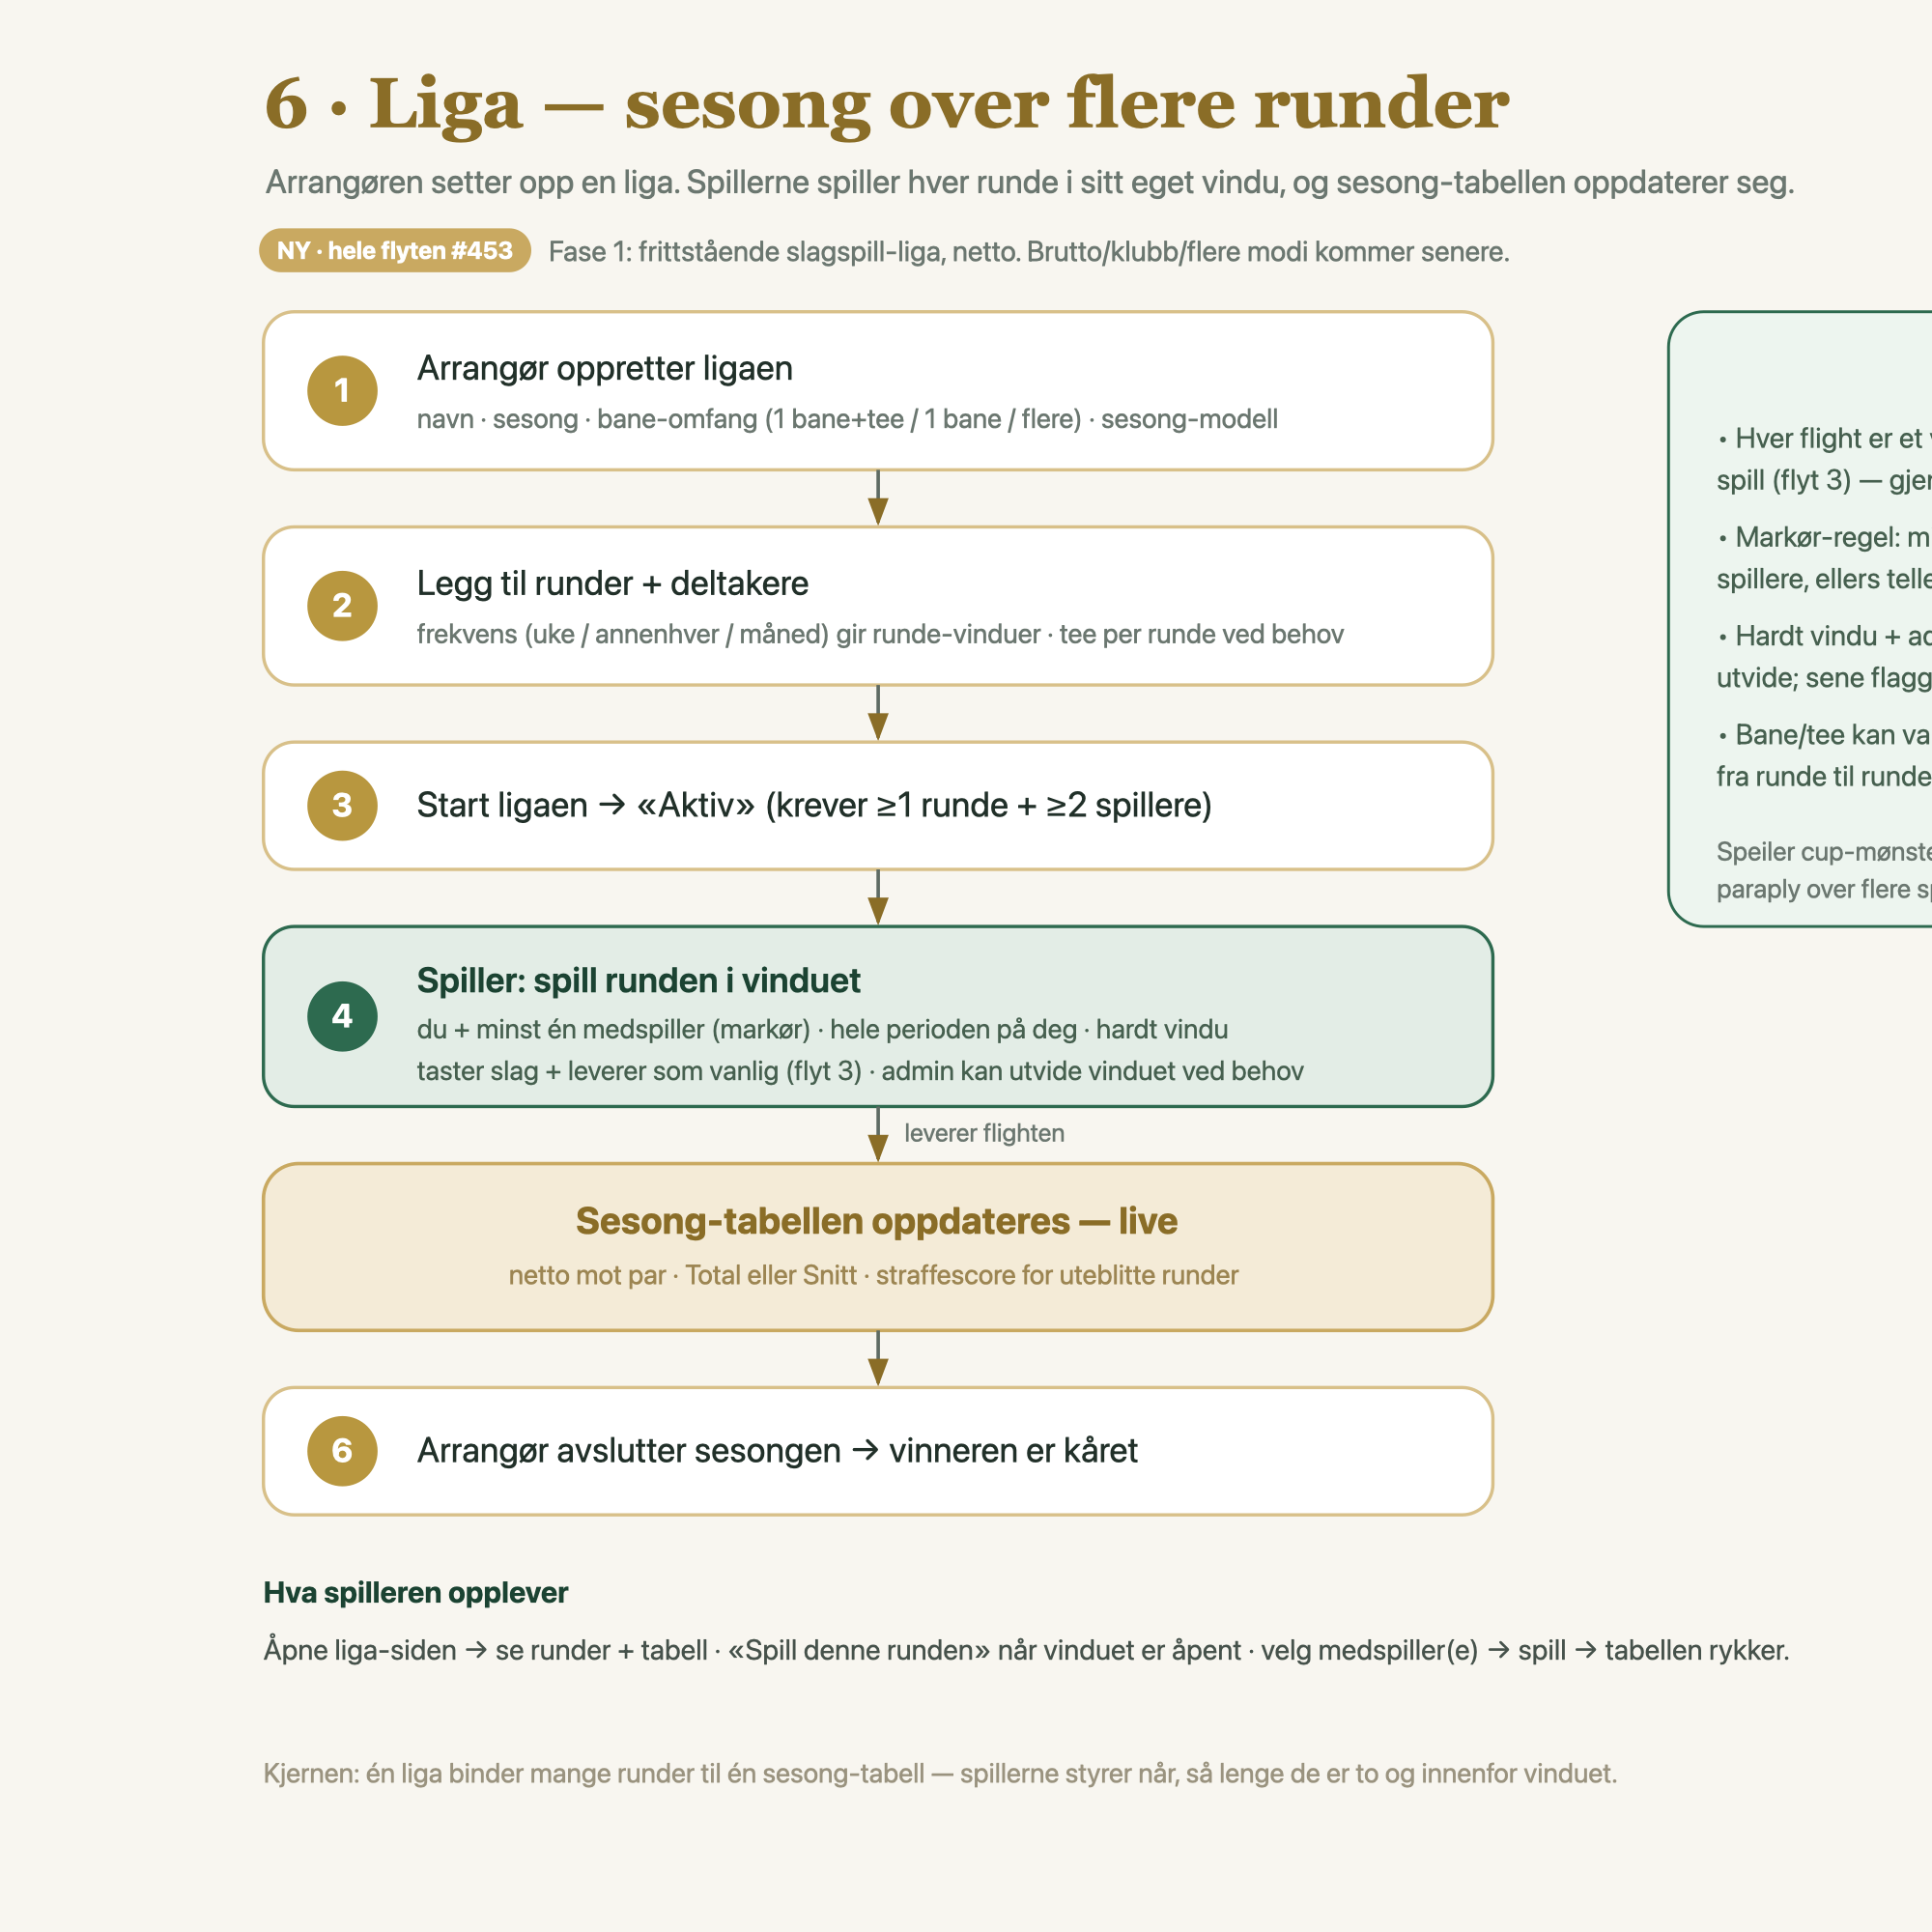
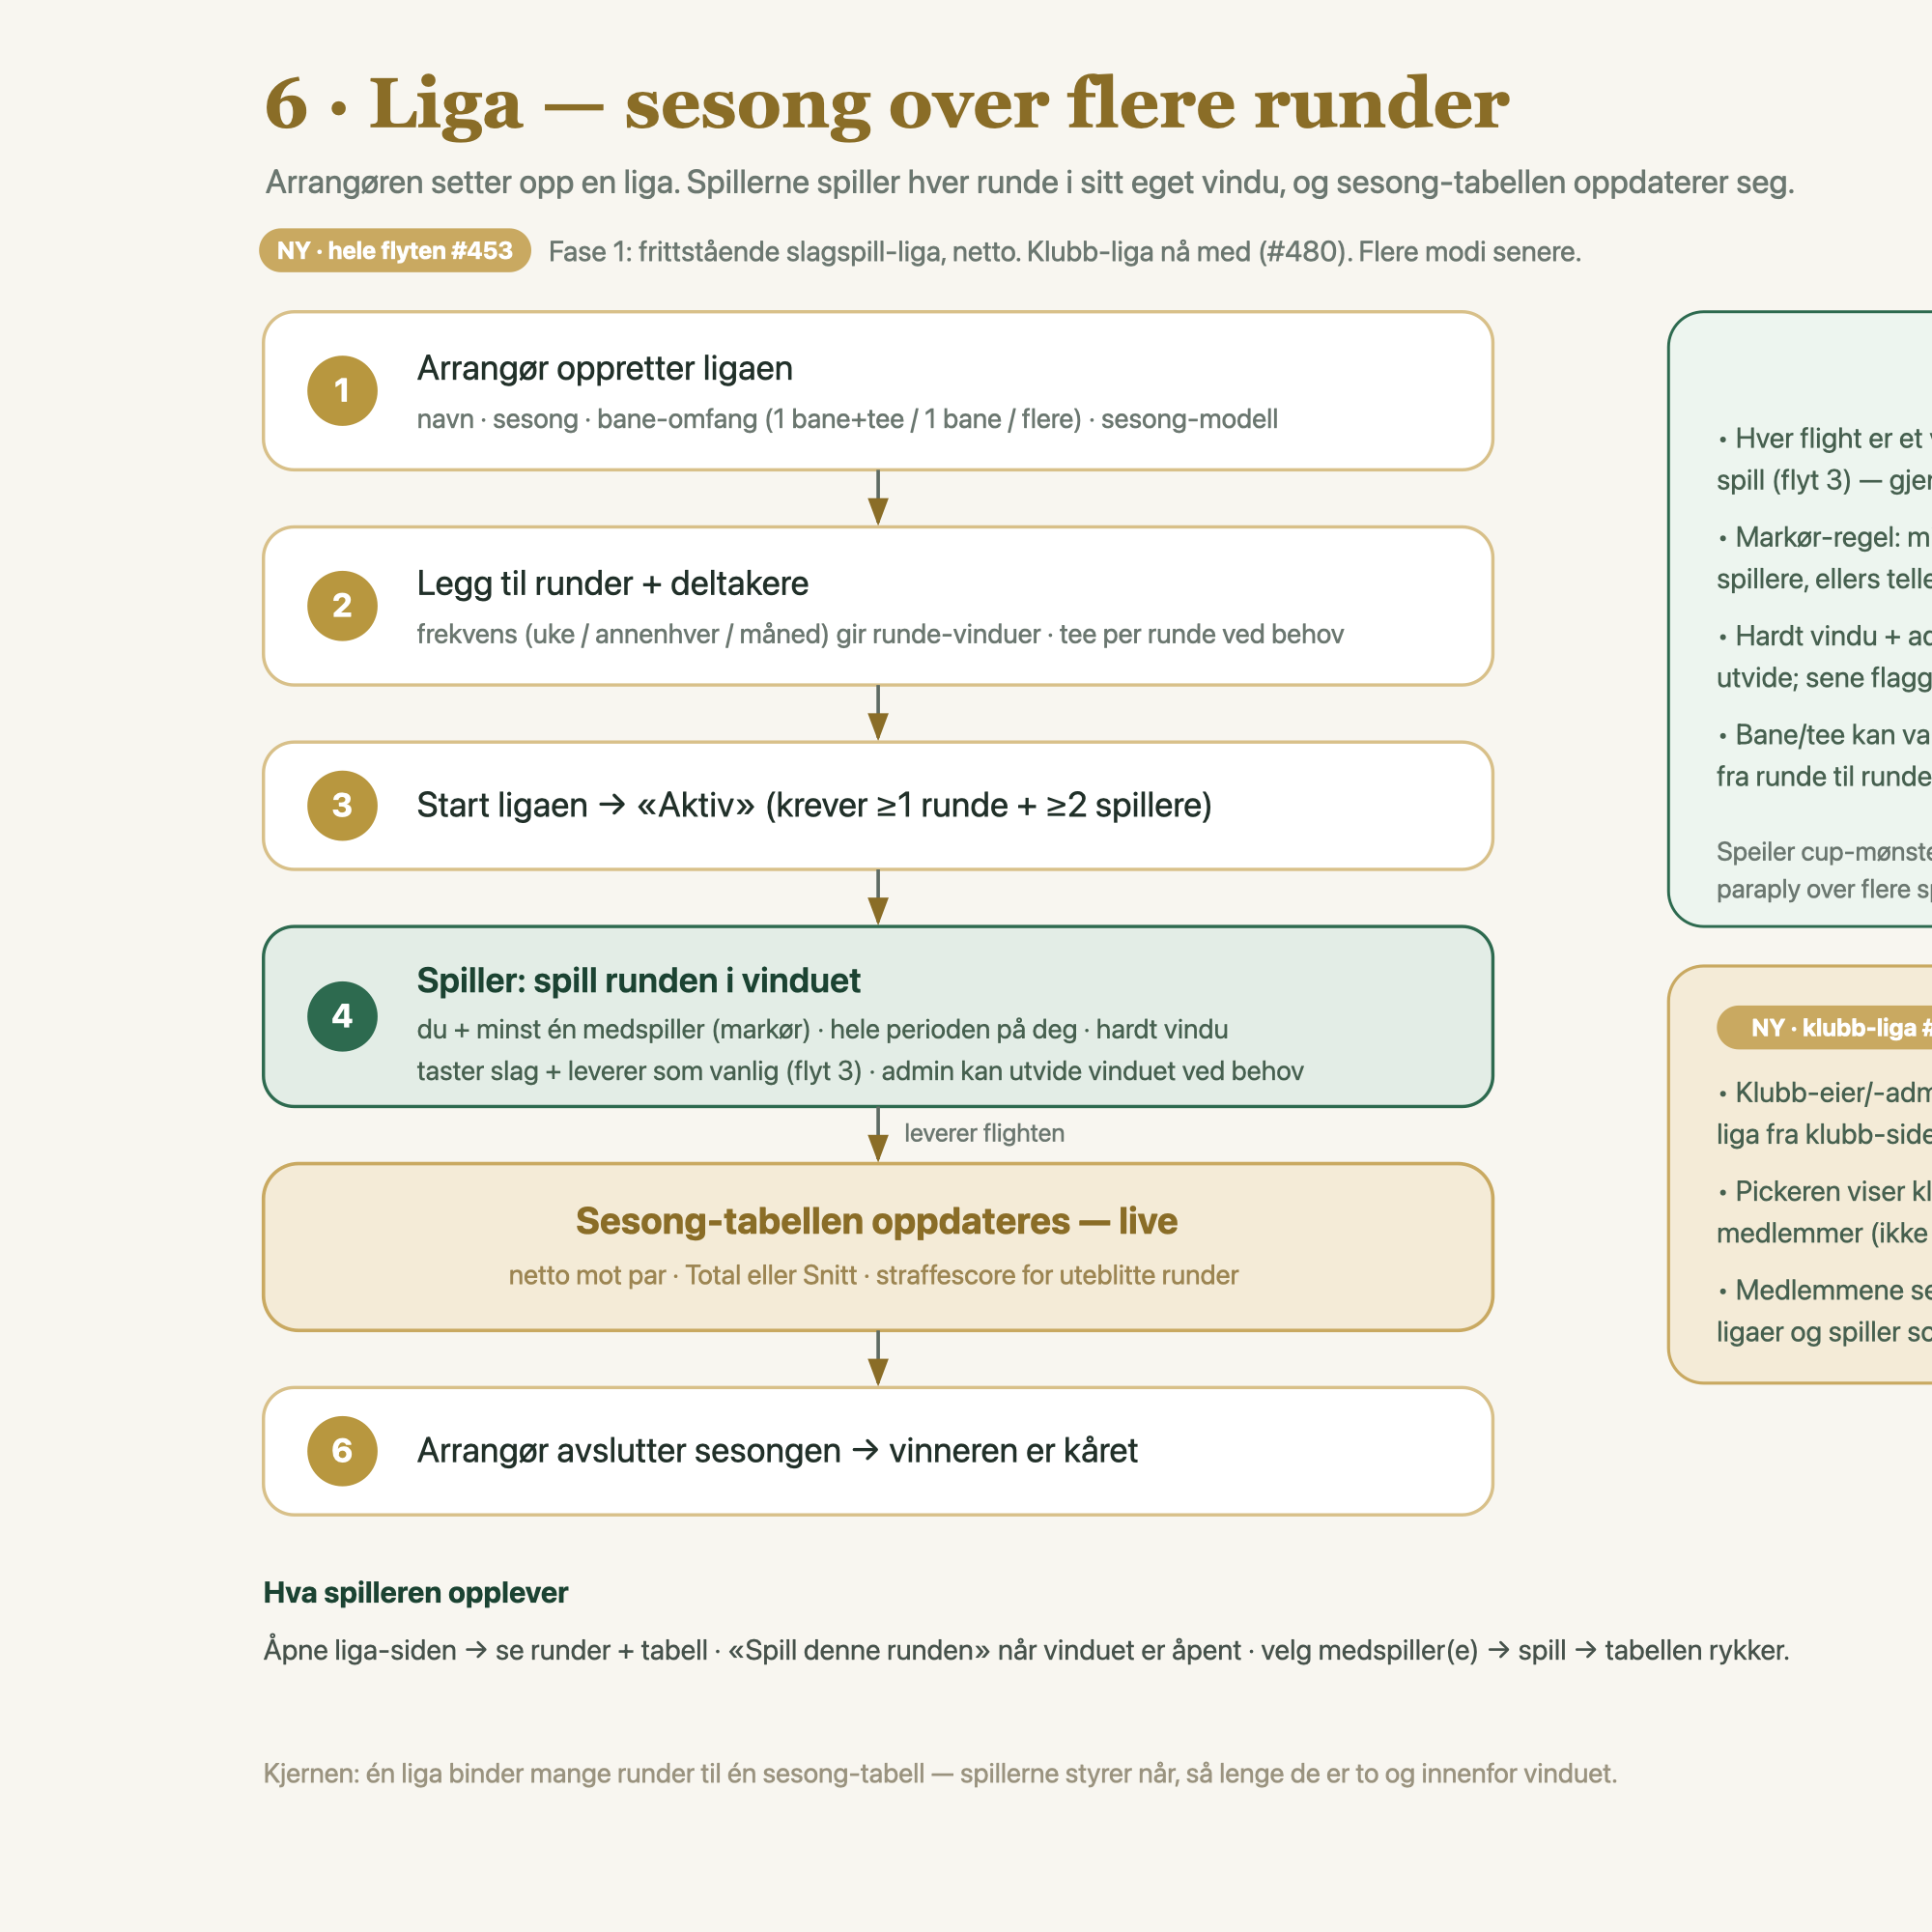
feat(klubb): klubb-eier/-admin oppretter klubb-liga; medlemmer ser den (#480)
Fase 1 av klubb-konkurranse-eposet. «Klubbens ligaer»-seksjon på /klubber/[id]
(alle medlemmer ser klubbens ligaer; «Ny liga»-knapp kun for eier/admin) +
ny rute /klubber/[id]/liga/ny som gjenbruker CreateLigaForm med klubb-kontekst
og medlems-sourcet picker. Type-C render-test for seksjonen. Flyt-diagram 06
oppdatert med klubb-liga-grenen.

Bump 1.86.0 (MINOR — ny bruker-synlig feature). Refs #480

Changed region(s): [[0.837, 0.496, 1.0, 0.744], [0.527, 0.124, 0.806, 0.155]]

diff --git a/app/klubber/[id]/ClubLeaguesSection.tsx b/app/klubber/[id]/ClubLeaguesSection.tsx
@@ -1,0 +1,67 @@
+import { Card } from '@/components/ui/Card';
+import { SmartLink } from '@/components/ui/SmartLink';
+import { LinkButton } from '@/components/ui/Button';
+
+export type ClubLeagueRow = {
+  id: string;
+  name: string;
+  status: string;
+};
+
+const LEAGUE_STATUS_LABELS: Record<string, string> = {
+  draft: 'Utkast',
+  active: 'Aktiv',
+  finished: 'Avsluttet',
+};
+
+/**
+ * «Klubbens ligaer»-seksjonen på klubb-detaljsiden (#480 Fase 1).
+ *
+ * Alle medlemmer ser lista (RLS slipper medlemmer til klubb-scopede ligaer).
+ * «Ny liga»-knappen vises kun for klubb-eier/-admin og kun når klubben ikke er
+ * frossen (utløpt avtale → ingen nye ligaer, speiler «Sett opp runde»).
+ */
+export function ClubLeaguesSection({
+  leagues,
+  clubId,
+  canCreate,
+}: {
+  leagues: ClubLeagueRow[];
+  clubId: string;
+  canCreate: boolean;
+}) {
+  return (
+    <section className="mb-8">
+      <h2 className="mb-3 font-sans text-[11px] font-semibold uppercase tracking-[0.18em] text-muted">
+        Klubbens ligaer
+      </h2>
+      {leagues.length > 0 ? (
+        <div className="space-y-2">
+          {leagues.map((liga) => (
+            <SmartLink key={liga.id} href={`/liga/${liga.id}`} className="block">
+              <Card className="p-4">
+                <div className="flex items-center justify-between gap-3">
+                  <span className="truncate font-sans text-[15px] font-medium text-text">
+                    {liga.name}
+                  </span>
+                  <span className="shrink-0 rounded-full border border-border px-2.5 py-0.5 font-sans text-xs text-muted">
+                    {LEAGUE_STATUS_LABELS[liga.status] ?? liga.status}
+                  </span>
+                </div>
+              </Card>
+            </SmartLink>
+          ))}
+        </div>
+      ) : (
+        <p className="font-sans text-sm text-muted">Ingen ligaer i klubben ennå.</p>
+      )}
+      {canCreate && (
+        <div className="mt-3">
+          <LinkButton href={`/klubber/${clubId}/liga/ny`} full>
+            Ny liga
+          </LinkButton>
+        </div>
+      )}
+    </section>
+  );
+}

diff --git a/app/klubber/[id]/liga/ny/page.tsx b/app/klubber/[id]/liga/ny/page.tsx
@@ -1,0 +1,64 @@
+import { notFound, redirect } from 'next/navigation';
+import { getServerClient } from '@/lib/supabase/server';
+import { requireAdminOrClubAdmin } from '@/lib/admin/auth';
+import { getClubDetail } from '@/lib/clubs/getClubDetail';
+import { getClubMemberOptionsForClub } from '@/lib/clubs/getClubMemberOptionsForClub';
+import { getNewGameFormData } from '@/lib/games/newGameFormData';
+import { isClubExpired } from '@/lib/clubs/clubStatus';
+import { AppShell } from '@/components/ui/AppShell';
+import { TopBar } from '@/components/ui/TopBar';
+import { BrassRibbon } from '@/components/ui/BrassRibbon';
+import { PageHeader } from '@/components/ui/PageHeader';
+import { CreateLigaForm } from '@/app/admin/liga/new/CreateLigaForm';
+
+type Params = Promise<{ id: string }>;
+
+/**
+ * /klubber/[id]/liga/ny — opprett en klubb-scopet liga (#480 Fase 1).
+ *
+ * Gatet til klubbens eier/admin (eller global admin) via requireAdminOrClubAdmin.
+ * Deltaker-pickeren mates med klubbens medlemmer (ikke venner), og ligaen lagres
+ * med group_id = klubben. Gjenbruker `CreateLigaForm` med klubb-kontekst-props.
+ * Frossen klubb → redirect tilbake (tar ikke nye ligaer, speiler «Sett opp runde»).
+ */
+export default async function NewKlubbLigaPage({ params }: { params: Params }) {
+  const { id } = await params;
+
+  const supabase = await getServerClient();
+  const { userId } = await requireAdminOrClubAdmin(supabase, id);
+
+  const detail = await getClubDetail(supabase, id, userId);
+  if (!detail) notFound();
+  if (isClubExpired(detail.club.valid_until)) redirect(`/klubber/${id}`);
+
+  const [{ courses }, members] = await Promise.all([
+    getNewGameFormData(),
+    getClubMemberOptionsForClub(id),
+  ]);
+
+  // Creator pre-selected (if a member) so they can play in the league they set up.
+  const me = members.find((p) => p.id === userId) ?? null;
+  const invitable = [
+    ...(me ? [me] : []),
+    ...members.filter((p) => p.id !== userId),
+  ];
+
+  return (
+    <AppShell>
+      <TopBar backHref={`/klubber/${id}`} kicker={detail.club.name} />
+      <BrassRibbon kicker="Ny klubb-liga" />
+      <PageHeader
+        title="Opprett liga"
+        subtitle={`Sett opp en sesong-serie med netto slagspill for ${detail.club.name}.`}
+      />
+
+      <CreateLigaForm
+        courses={courses}
+        players={invitable}
+        meId={me?.id ?? null}
+        groupId={id}
+        clubName={detail.club.name}
+      />
+    </AppShell>
+  );
+}

diff --git a/app/klubber/[id]/ClubLeaguesSection.test.tsx b/app/klubber/[id]/ClubLeaguesSection.test.tsx
@@ -1,0 +1,44 @@
+import { describe, it, expect, vi } from 'vitest';
+import { render, screen } from '@testing-library/react';
+import { ClubLeaguesSection, type ClubLeagueRow } from './ClubLeaguesSection';
+
+// SmartLink/LinkButton lener seg på next/link → useRouter for prefetch.
+vi.mock('next/navigation', () => ({
+  useRouter: () => ({ prefetch: () => {} }),
+  usePathname: () => '/',
+}));
+
+const LEAGUES: ClubLeagueRow[] = [
+  { id: 'l1', name: 'Vårserien', status: 'active' },
+  { id: 'l2', name: 'Høstserien', status: 'draft' },
+];
+
+describe('ClubLeaguesSection (#480)', () => {
+  it('lists the club leagues, each linking to its public liga page', () => {
+    render(<ClubLeaguesSection leagues={LEAGUES} clubId="c1" canCreate={false} />);
+    expect(screen.getByText('Vårserien')).toBeInTheDocument();
+    expect(screen.getByText('Høstserien')).toBeInTheDocument();
+    // Status badge uses the human label, not the raw enum value.
+    expect(screen.getByText('Aktiv')).toBeInTheDocument();
+    expect(screen.getByText('Utkast')).toBeInTheDocument();
+    const ligaLink = screen.getByText('Vårserien').closest('a');
+    expect(ligaLink).toHaveAttribute('href', '/liga/l1');
+  });
+
+  it('shows the «Ny liga» entry only when the viewer may create (club owner/admin, not frozen)', () => {
+    const { rerender } = render(
+      <ClubLeaguesSection leagues={LEAGUES} clubId="c1" canCreate={true} />,
+    );
+    const create = screen.getByRole('link', { name: 'Ny liga' });
+    expect(create).toHaveAttribute('href', '/klubber/c1/liga/ny');
+
+    // A plain member (canCreate=false) gets the list but no create door.
+    rerender(<ClubLeaguesSection leagues={LEAGUES} clubId="c1" canCreate={false} />);
+    expect(screen.queryByRole('link', { name: 'Ny liga' })).toBeNull();
+  });
+
+  it('renders an empty-state hint when the club has no leagues', () => {
+    render(<ClubLeaguesSection leagues={[]} clubId="c1" canCreate={false} />);
+    expect(screen.getByText('Ingen ligaer i klubben ennå.')).toBeInTheDocument();
+  });
+});

diff --git a/app/klubber/[id]/page.tsx b/app/klubber/[id]/page.tsx
@@ -11,6 +11,7 @@ import { SubmitButton } from '@/components/ui/SubmitButton';
 import { Input } from '@/components/ui/Input';
 import { SmartLink } from '@/components/ui/SmartLink';
 import { CopyJoinLinkButton } from './CopyJoinLinkButton';
+import { ClubLeaguesSection } from './ClubLeaguesSection';
 import { isClubExpired } from '@/lib/clubs/clubStatus';
 import { addMember, decideRequest } from './actions';
 
@@ -67,6 +68,14 @@ export default async function KlubbDetailPage({
 
   const { club, members, myRole, pendingRequests } = detail;
   const isAdmin = myRole === 'owner' || myRole === 'admin';
+
+  // #480: klubbens ligaer. RLS («leagues select scoped») lar medlemmer se
+  // klubb-scopede rader; oppretting/styring er klubb-admin (knapp nedenfor).
+  const { data: clubLeagues } = await supabase
+    .from('leagues')
+    .select('id, name, status, season_start, season_end')
+    .eq('group_id', id)
+    .order('created_at', { ascending: false });
 
   // #50: en utløpt klubb (frossen avtale) tar ikke imot nye medlemmer eller
   // spill. Vi fryser legg-til-medlem, del-lenke og «sett opp runde», og viser
@@ -258,6 +267,13 @@ export default async function KlubbDetailPage({
           ))}
         </div>
       </section>
+
+      {/* Klubbens ligaer (#480) — alle medlemmer ser lista; owner/admin oppretter. */}
+      <ClubLeaguesSection
+        leagues={clubLeagues ?? []}
+        clubId={club.id}
+        canCreate={isAdmin && !frozen}
+      />
 
       {/* Create a game scoped to this club (any member) — frozen when expired. */}
       {!frozen && (

diff --git a/CHANGELOG.md b/CHANGELOG.md
@@ -17,7 +17,39 @@ Regler for når en bump utløses er beskrevet i [CLAUDE.md](CLAUDE.md) under «V
 
 ---
 
-## 1.85.y — Venner i spiller-pickeren
+## 1.86.y — Klubb-liga
+
+Issue [#480](https://github.com/jdlarssen/golf-app/issues/480) (epos). En klubb kan nå kjøre sin egen liga: eieren eller en klubb-admin setter den opp rett fra klubb-siden, og medlemmene ser den og blir med.
+
+### [1.86.0] - 2026-06-07 · #480
+
+> Er du eier eller admin i en klubb på Tørny, kan du nå sette opp en liga for klubben rett fra klubb-siden. Deltaker-lista viser klubbens medlemmer, og alle i klubben ser ligaen og blir med på sesongen.
+
+<details>
+<summary>Teknisk</summary>
+
+[#480](https://github.com/jdlarssen/golf-app/issues/480) Fase 1 av eposet «klubben kjører egne konkurranser». Gir `leagues` en valgfri klubb-tilknytning og åpner skrive-tilgang for klubb-eiere og -admins på klubb-scopede rader.
+
+#### Added
+- Migrasjon `0083`: `leagues.group_id` (nullable FK → `groups`), medlems-scopet SELECT-policy (frittstående synlig for alle, klubb-scopet kun medlemmer + global admin), og admin/klubb-admin WRITE-policy på `leagues`/`league_rounds`/`league_players` via ny SECURITY DEFINER `league_group_id()`.
+- `requireAdminOrClubAdmin` (slipper klubb-eier/-admin eller global admin inn) + `getClubMemberOptionsForClub` (klubbens medlemmer som picker-kilde).
+- `/klubber/[id]/liga/ny` — klubb-eier/-admin oppretter en klubb-liga; deltaker-pickeren viser klubbens medlemmer i stedet for venner.
+- «Klubbens ligaer»-seksjon på klubb-siden: alle medlemmer ser klubbens ligaer; «Ny liga»-knapp kun for eier/admin.
+
+#### Changed
+- `createLeagueDraft` autoriserer etter `group_id`: satt → klubb-admin og deltakere filtrert til klubbmedlemmer; tom → global admin som før.
+- `/liga/[id]` vises kun for medlemmer, deltakere og global admin når ligaen er klubb-scopet (snapshot bruker admin-client, så gaten ligger i app-laget).
+- Frittstående liga er uendret: synlig for alle, opprettes kun av global admin. Å åpne frittstående liga-oppretting for alle er et eget issue.
+
+</details>
+
+## Tidligere versjoner
+
+<details>
+<summary><strong>Venner i spiller-pickeren (#464) — 1 serie</strong></summary>
+
+<details>
+<summary><strong>1.85.y — Venner i spiller-pickeren (1 oppføring)</strong></summary>
 
 Issue [#464](https://github.com/jdlarssen/golf-app/issues/464). Når du legger til folk i et spill eller en liga, viser plukk-lista nå vennene dine — eller klubbens medlemmer når du arrangerer for en klubb — i stedet for hele brukerbasen.
 
@@ -44,7 +76,9 @@ Issue [#464](https://github.com/jdlarssen/golf-app/issues/464). Når du legger t
 
 </details>
 
-## Tidligere versjoner
+</details>
+
+</details>
 
 <details>
 <summary><strong>Bekreftet deltakelse (#463) — 1 serie</strong></summary>